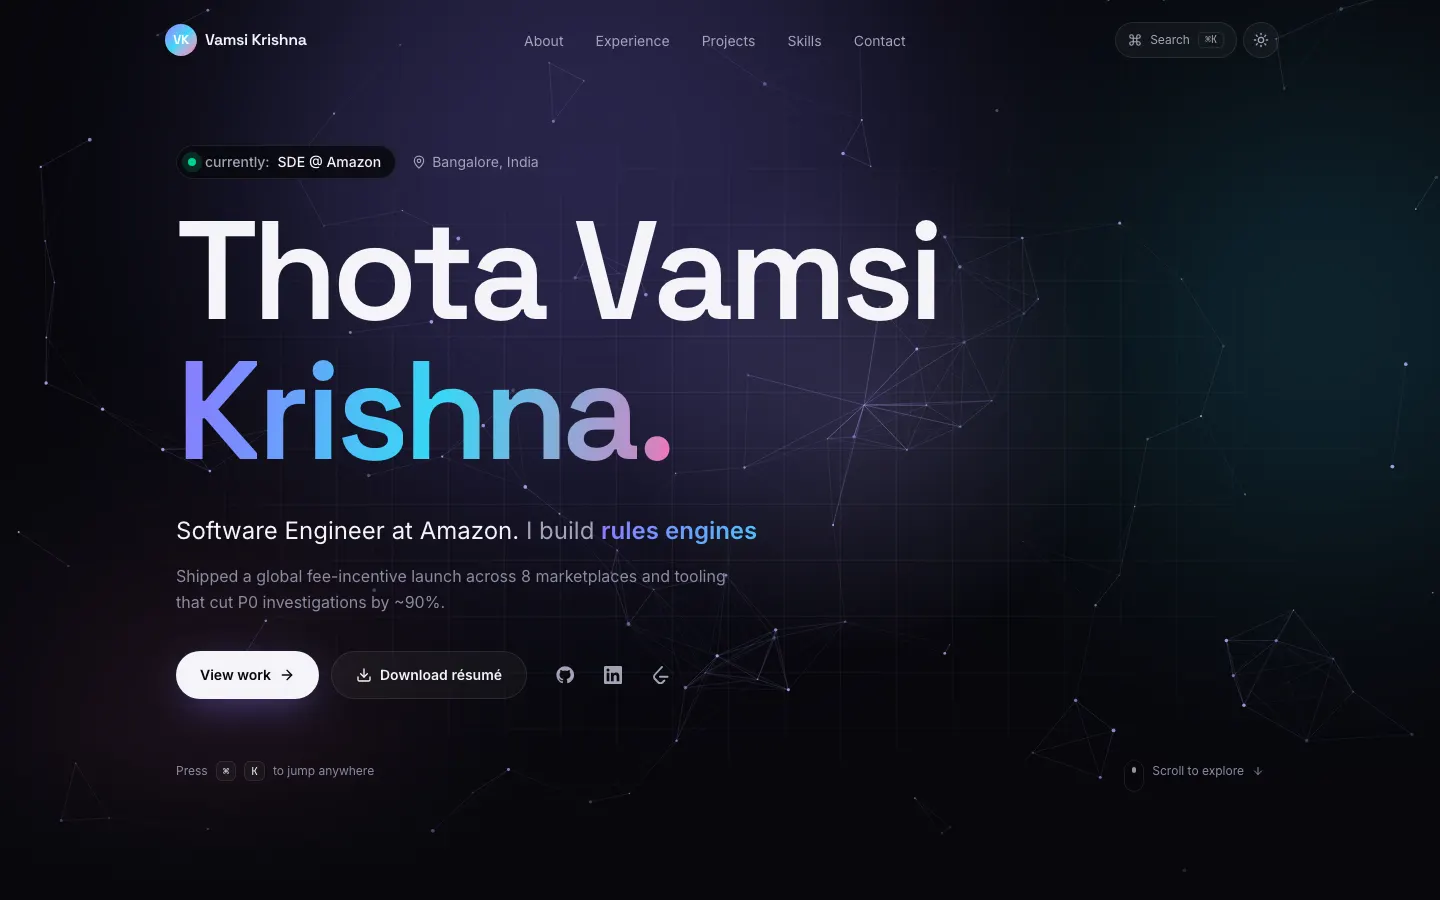
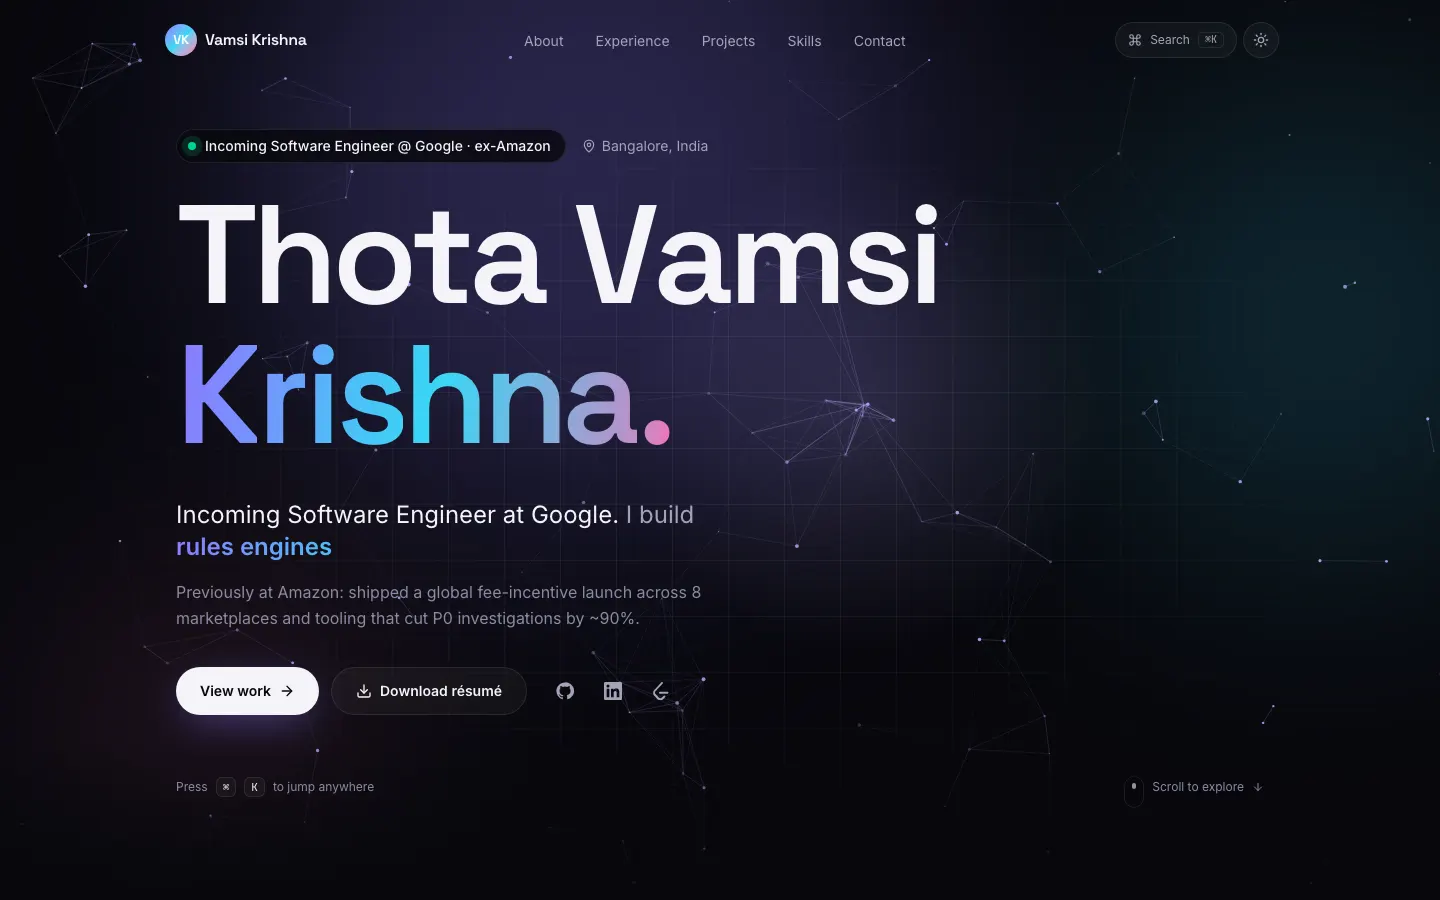
feat(content): update for incoming Software Engineer role at Google
Status pill, headline, summary, About tile, meta/OG/JSON-LD and OG image
now read "Incoming Software Engineer @ Google · ex-Amazon". Add a
detail-less Google entry (Nov 2026 – Present, incoming) to the timeline
and end the Amazon Seller Fees & Incentives role in Nov 2026. Terminal
about/experience output follows the data file. Refresh README text and
screenshots.

diff --git a/index.html b/index.html
@@ -3,10 +3,10 @@
   <head>
     <meta charset="UTF-8" />
     <meta name="viewport" content="width=device-width, initial-scale=1.0, viewport-fit=cover" />
-    <title>Thota Vamsi Krishna · Software Engineer at Amazon</title>
+    <title>Thota Vamsi Krishna · Incoming Software Engineer at Google</title>
     <meta
       name="description"
-      content="Thota Vamsi Krishna is a Software Engineer at Amazon in Bangalore building backend services, rules engines, data pipelines, AWS infrastructure, AI agents and developer tools."
+      content="Thota Vamsi Krishna is a Software Engineer joining Google (Nov 2026), ex-Amazon, based in Bangalore. Backend services, rules engines, data pipelines, AWS infrastructure, AI agents and developer tools."
     />
     <meta name="author" content="Thota Vamsi Krishna" />
     <meta name="theme-color" content="#07070c" media="(prefers-color-scheme: dark)" />
@@ -21,21 +21,21 @@
 
     <meta property="og:type" content="website" />
     <meta property="og:site_name" content="Thota Vamsi Krishna" />
-    <meta property="og:title" content="Thota Vamsi Krishna · Software Engineer at Amazon" />
+    <meta property="og:title" content="Thota Vamsi Krishna · Incoming Software Engineer at Google" />
     <meta
       property="og:description"
-      content="Backend services, rules engines, data pipelines and AWS infrastructure. Plus AI agents and developer tools."
+      content="Incoming Software Engineer @ Google · ex-Amazon. Backend services, rules engines, data pipelines and AWS infrastructure, plus AI agents and developer tools."
     />
     <meta property="og:url" content="https://portfolio-beryl-nine-58.vercel.app/" />
     <meta property="og:image" content="https://portfolio-beryl-nine-58.vercel.app/og-image.png" />
     <meta property="og:image:width" content="1200" />
     <meta property="og:image:height" content="630" />
-    <meta property="og:image:alt" content="Thota Vamsi Krishna, Software Engineer at Amazon" />
+    <meta property="og:image:alt" content="Thota Vamsi Krishna, incoming Software Engineer at Google, ex-Amazon" />
     <meta name="twitter:card" content="summary_large_image" />
-    <meta name="twitter:title" content="Thota Vamsi Krishna · Software Engineer at Amazon" />
+    <meta name="twitter:title" content="Thota Vamsi Krishna · Incoming Software Engineer at Google" />
     <meta
       name="twitter:description"
-      content="Backend services, rules engines, data pipelines and AWS infrastructure. Plus AI agents and developer tools."
+      content="Incoming Software Engineer @ Google · ex-Amazon. Backend services, rules engines, data pipelines and AWS infrastructure, plus AI agents and developer tools."
     />
     <meta name="twitter:image" content="https://portfolio-beryl-nine-58.vercel.app/og-image.png" />
 
@@ -45,7 +45,7 @@
         "@type": "Person",
         "name": "Thota Vamsi Krishna",
         "jobTitle": "Software Engineer",
-        "worksFor": { "@type": "Organization", "name": "Amazon" },
+        "description": "Incoming Software Engineer at Google (Nov 2026), previously Software Development Engineer at Amazon.",
         "address": { "@type": "PostalAddress", "addressLocality": "Bangalore", "addressCountry": "IN" },
         "alumniOf": { "@type": "CollegeOrUniversity", "name": "IIIT Jabalpur" },
         "url": "https://portfolio-beryl-nine-58.vercel.app/",
@@ -73,7 +73,7 @@
   <body>
     <noscript>
       <p style="padding: 2rem; font-family: system-ui">
-        Thota Vamsi Krishna, Software Engineer at Amazon. Email
+        Thota Vamsi Krishna, incoming Software Engineer at Google (ex-Amazon). Email
         <a href="mailto:vamsikrishnathota483@gmail.com">vamsikrishnathota483@gmail.com</a>.
       </p>
     </noscript>

diff --git a/src/sections/Experience.tsx b/src/sections/Experience.tsx
@@ -10,12 +10,15 @@ function period(e: Exp) {
   return e.start === e.end ? e.start : `${e.start} – ${e.end}`;
 }
 
+const hasDetails = (e: Exp) => e.highlights.length > 0;
+
 function Item({ e, index, defaultOpen }: { e: Exp; index: number; defaultOpen: boolean }) {
   const [open, setOpen] = useState(defaultOpen);
   const fx = usePointerFx<HTMLDivElement>();
   const panelId = useId();
   const reduce = useReducedMotion();
   const current = e.end === 'Present';
+  const details = hasDetails(e);
 
   return (
     <li className="relative pl-10 sm:pl-16">
@@ -37,21 +40,27 @@ function Item({ e, index, defaultOpen }: { e: Exp; index: number; defaultOpen: b
               <div>
                 <p className="font-mono text-xs tracking-wider text-accent uppercase">
                   {period(e)}
-                  {current && <span className="ml-2 rounded-full bg-accent/15 px-2 py-0.5 text-[10px] text-accent">Now</span>}
+                  {current && (
+                    <span className="ml-2 rounded-full bg-accent/15 px-2 py-0.5 text-[10px] text-accent">{e.incoming ? 'Incoming' : 'Now'}</span>
+                  )}
                 </p>
                 <h3 className="mt-2 font-display text-xl font-semibold tracking-tight sm:text-2xl">
                   {e.role} <span className="text-muted">·</span> {e.company}
                 </h3>
                 {e.team && <p className="mt-0.5 text-sm text-muted">{e.team}</p>}
               </div>
-              <p className="inline-flex items-center gap-1 text-sm text-subtle">
-                <MapPin size={14} aria-hidden="true" />
-                {e.location}
-              </p>
+              {e.location && (
+                <p className="inline-flex items-center gap-1 text-sm text-subtle">
+                  <MapPin size={14} aria-hidden="true" />
+                  {e.location}
+                </p>
+              )}
             </div>
 
-            <p className="mt-4 max-w-3xl leading-relaxed text-muted">{e.summary}</p>
+            {e.summary && <p className="mt-4 max-w-3xl leading-relaxed text-muted">{e.summary}</p>}
 
+            {details && (
+            <>
             <ul className="mt-4 flex flex-wrap gap-1.5" aria-label="Tech stack">
               {e.stack.map((s) => (
                 <li key={s} className="chip">
@@ -98,6 +107,8 @@ function Item({ e, index, defaultOpen }: { e: Exp; index: number; defaultOpen: b
                 </m.div>
               )}
             </AnimatePresence>
+            </>
+            )}
           </div>
         </div>
       </Reveal>
@@ -113,7 +124,7 @@ export function Experience() {
   return (
     <section id="experience" aria-labelledby="experience-title" className="relative mx-auto max-w-6xl px-5 py-20 sm:px-8 md:py-28">
       <SectionHeading id="experience" eyebrow="Experience" title={<>Where I’ve <span className="text-gradient">shipped</span>.</>}>
-        From microservice throughput to global launches. Expand any role for the details.
+        From microservice throughput to global launches, and next, Google. Expand any role for the details.
       </SectionHeading>
 
       <ol ref={ref} className="relative space-y-6">
@@ -124,7 +135,7 @@ export function Experience() {
           className="absolute top-2 bottom-2 left-[19px] w-px origin-top bg-gradient-to-b from-accent via-accent-2 to-accent-3 sm:left-[31px]"
         />
         {experience.map((e, i) => (
-          <Item key={`${e.company}-${e.start}`} e={e} index={i} defaultOpen={i === 0} />
+          <Item key={`${e.company}-${e.start}`} e={e} index={i} defaultOpen={e === experience.find(hasDetails)} />
         ))}
       </ol>
     </section>

diff --git a/src/data/profile.ts b/src/data/profile.ts
@@ -7,16 +7,16 @@ export const profile = {
   name: 'Thota Vamsi Krishna',
   firstName: 'Vamsi',
   initials: 'VK',
-  headline: 'Software Engineer at Amazon',
+  headline: 'Incoming Software Engineer at Google',
   location: 'Bangalore, India',
   timezone: 'Asia/Kolkata',
   email: 'vamsikrishnathota483@gmail.com',
   resume: '/Thota_Vamsi_Krishna_Resume.pdf',
   photo: '/images/profile.webp',
   photoFallback: '/images/profile.jpg',
-  status: 'SDE @ Amazon',
+  status: 'Incoming Software Engineer @ Google · ex-Amazon',
   summary:
-    '1+ year building backend services, rules engines, data pipelines and AWS infrastructure. Delivered a global fee-incentive launch across 8 marketplaces and built tooling that cut P0 investigations by ~90%. I also build AI agents and developer tools.',
+    'Software Engineer joining Google (Nov 2026). Previously at Amazon, 1+ year building backend services, rules engines, data pipelines and AWS infrastructure. Delivered a global fee-incentive launch across 8 marketplaces; built tooling that cut P0 investigations by ~90%. I also build AI agents and developer tools.',
   roles: ['backend services', 'rules engines', 'data pipelines', 'AWS infrastructure', 'AI agents', 'developer tools'],
 } as const;
 
@@ -51,15 +51,28 @@ export type Experience = {
   summary: string;
   stack: string[];
   highlights: string[];
+  incoming?: boolean;
 };
 
 export const experience: Experience[] = [
+  {
+    // Incoming role: intentionally no details.
+    company: 'Google',
+    role: 'Software Engineer',
+    start: 'Nov 2026',
+    end: 'Present',
+    location: '',
+    summary: '',
+    stack: [],
+    highlights: [],
+    incoming: true,
+  },
   {
     company: 'Amazon',
     role: 'Software Development Engineer',
     team: 'Seller Fees & Incentives',
     start: 'Jan 2026',
-    end: 'Present',
+    end: 'Nov 2026',
     location: 'Bangalore',
     summary:
       'Fee-incentive programs for new sellers: event-driven discount platform, rules-based eligibility and the tooling that keeps it healthy.',

diff --git a/src/sections/About.tsx b/src/sections/About.tsx
@@ -64,7 +64,7 @@ export function About() {
                 <p className="mt-3 leading-relaxed text-muted">{profile.summary}</p>
               </div>
               <p className="text-sm leading-relaxed text-subtle">
-                Day to day that means Java and Python services, Drools rules, SQL data pipelines and AWS (Lambda, CDK, SQS,
+                At Amazon that meant Java and Python services, Drools rules, SQL data pipelines and AWS (Lambda, CDK, SQS,
                 DynamoDB, Glue). Off the clock it means shipping AI agents and hackathon builds.
               </p>
             </div>
@@ -74,12 +74,12 @@ export function About() {
         <Tile className="col-span-2 sm:col-span-1" delay={0.05}>
           <div className="flex h-full flex-col justify-between gap-6">
             <div className="flex items-center justify-between text-muted">
-              <span className="font-mono text-xs uppercase tracking-widest">Now</span>
+              <span className="font-mono text-xs uppercase tracking-widest">Next · Nov 2026</span>
               <Briefcase size={18} aria-hidden="true" />
             </div>
             <div>
-              <p className="font-display text-2xl font-semibold">Amazon</p>
-              <p className="mt-1 text-sm text-muted">SDE · Seller Fees &amp; Incentives</p>
+              <p className="font-display text-2xl font-semibold">Google</p>
+              <p className="mt-1 text-sm text-muted">Incoming Software Engineer · ex-Amazon</p>
             </div>
           </div>
         </Tile>

diff --git a/src/sections/Hero.tsx b/src/sections/Hero.tsx
@@ -103,7 +103,7 @@ export function Hero() {
               <span className="animate-pulse-ring absolute h-2.5 w-2.5 rounded-full bg-emerald-400" />
               <span className="h-2 w-2 rounded-full bg-emerald-400" />
             </span>
-            <span className="text-muted">currently:</span> {profile.status}
+            {profile.status}
           </span>
           <span className="inline-flex items-center gap-1.5 rounded-full px-2 py-1.5 text-xs text-muted sm:text-sm">
             <MapPin size={14} aria-hidden="true" /> {profile.location}
@@ -124,7 +124,7 @@ export function Hero() {
         </m.p>
 
         <p className="mt-4 max-w-xl text-sm leading-relaxed text-subtle sm:text-base">
-          Shipped a global fee-incentive launch across 8 marketplaces and tooling that cut P0 investigations by ~90%.
+          Previously at Amazon: shipped a global fee-incentive launch across 8 marketplaces and tooling that cut P0 investigations by ~90%.
         </p>
 
         <m.div {...fade(0.6)} className="mt-9 flex flex-wrap items-center gap-3">

diff --git a/src/components/Terminal.tsx b/src/components/Terminal.tsx
@@ -84,7 +84,9 @@ export default function Terminal() {
               <div key={e.company + e.start}>
                 <span className="text-accent">{e.start === e.end ? e.start : `${e.start} – ${e.end}`}</span>{'  '}
                 <b className="text-fg">{e.role}</b> @ {e.company}
-                {e.team ? ` (${e.team})` : ''}, {e.location}
+                {e.team ? ` (${e.team})` : ''}
+                {e.location ? `, ${e.location}` : ''}
+                {e.incoming ? ' (incoming)' : ''}
               </div>
             ))}
           </div>,

diff --git a/README.md b/README.md
@@ -1,6 +1,6 @@
 # Thota Vamsi Krishna · Portfolio
 
-Personal site of **Thota Vamsi Krishna**, Software Engineer at Amazon (Bangalore). It's a dark, interactive single-page portfolio built with Vite, React 18, TypeScript, Tailwind CSS and Framer Motion.
+Personal site of **Thota Vamsi Krishna**, incoming Software Engineer at Google (Nov 2026) and ex-Amazon, based in Bangalore. It's a dark, interactive single-page portfolio built with Vite, React 18, TypeScript, Tailwind CSS and Framer Motion.
 
 ![Vite](https://img.shields.io/badge/Vite-8-646CFF?logo=vite&logoColor=white)
 ![React](https://img.shields.io/badge/React-18-61DAFB?logo=react&logoColor=black)
@@ -15,10 +15,10 @@ Personal site of **Thota Vamsi Krishna**, Software Engineer at Amazon (Bangalore
 
 ## Features
 
-- **Interactive hero.** A canvas "constellation" field reacts to the cursor like a gravity well. The name animates in letter by letter, a rotating word cycles through what I build, the call-to-action buttons are magnetic, and a status pill shows *currently: SDE @ Amazon*.
+- **Interactive hero.** A canvas "constellation" field reacts to the cursor like a gravity well. The name animates in letter by letter, a rotating word cycles through what I build, the call-to-action buttons are magnetic, and a status pill shows *Incoming Software Engineer @ Google · ex-Amazon*.
 - **Command palette (⌘K / Ctrl+K).** Fuzzy search to jump to a section, open GitHub, LinkedIn, LeetCode or any project, copy the email address, toggle the theme, or download the résumé. It works fully from the keyboard.
 - **Terminal widget.** A small shell with `help`, `about`, `experience`, `projects`, `skills`, `education`, `contact`, `resume`, `goto <section>`, `theme` and `clear`. It keeps command history (↑/↓) and has Tab completion.
-- **Bento About section.** Photo and bio, current role, a live Bangalore clock, animated stat counters (8 marketplaces, ~90% faster investigations, 512 EC2 instances, 1000+ problems), education and achievements.
+- **Bento About section.** Photo and bio, next role, a live Bangalore clock, animated stat counters (8 marketplaces, ~90% faster investigations, 512 EC2 instances, 1000+ problems), education and achievements.
 - **Experience timeline.** The line fills as you scroll. Each role has tech chips and expandable highlights.
 - **Projects.** Filter chips (All / AI & Agents / Full-stack / Backend) with animated layout changes, 3D tilt and a cursor spotlight on the cards, and a detail modal with screenshot, description, stack, GitHub and live links, plus a click-to-load YouTube demo.
 - **Skills.** Two marquee rows plus grouped chip cards you can tap to highlight.
